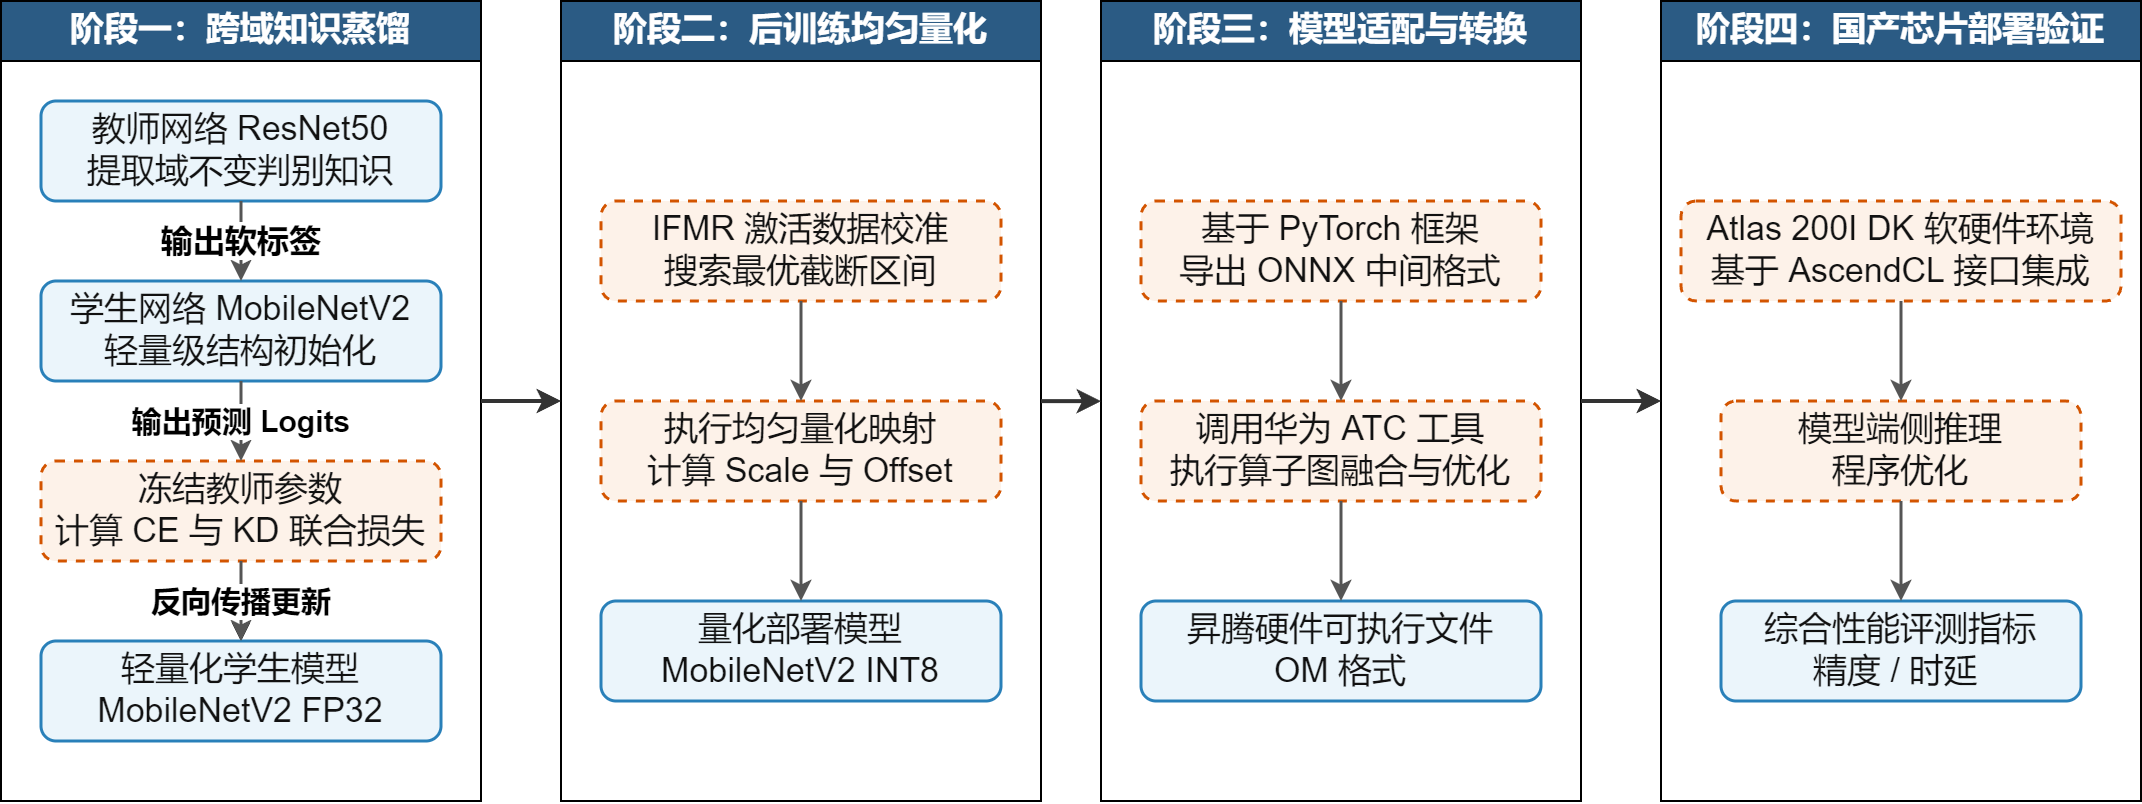
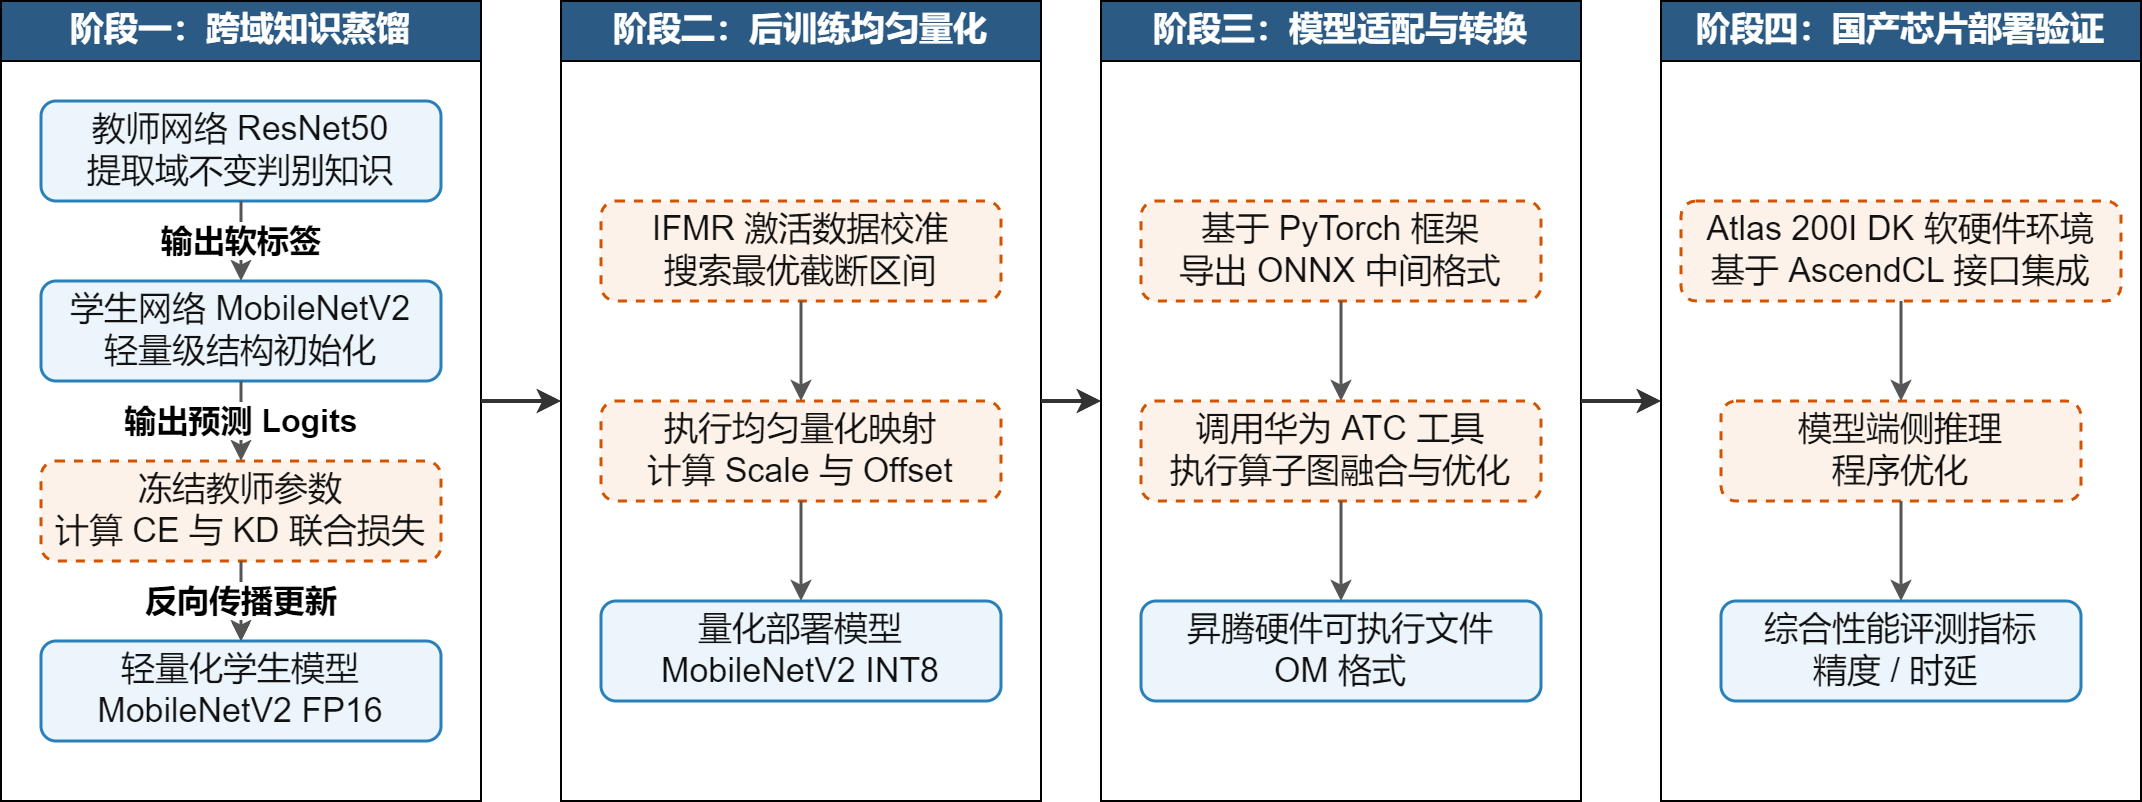
chap04仅剩还对实验进行修改

diff --git a/data/chap04.tex b/data/chap04.tex
@@ -3,7 +3,7 @@
 
 \section{引言}
 
-在复杂战场环境和非合作目标场景中的SAR目标识别任务，
+在复杂战场环境和非合作目标场景下开展SAR目标识别任务时，
 不仅面临实测训练数据获取困难、仿真与实测之间域偏移显著等问题，
 还受到边缘平台计算资源有限、存储空间受限以及关键软硬件自主可控需求增强等多重约束。
 第二章和第三章面向不同应用场景分别构建了跨域SAR目标识别模型，
@@ -17,7 +17,7 @@
 因此，如何在保持跨域识别性能基本稳定的前提下，
 通过轻量化手段降低模型计算负担，
 并结合国产AI芯片平台给出可执行的部署流程，
-成为本文从算法研究走向工程验证的关键环节。
+成为本文从算法研究走向实际应用的关键环节。
 
 基于上述需求，本章以本文第二章和第三章的跨域SAR目标识别模型为基础，
 面向国产AI芯片平台开展统一的轻量化处理与部署验证研究。
@@ -28,7 +28,7 @@
 进一步压缩模型参数表示精度，降低存储占用与推理开销；
 在此基础上，依托华为Atlas 200I DK A2开发者套件的软硬件环境，构建模型转换、板端集成、AscendCL推理调用与性能评估流程；
 最后从识别精度、资源消耗与部署便捷性等多个维度开展实验分析，
-形成“跨域识别模型轻量化—国产平台部署—端侧性能验证”的完整技术链路，
+打通“跨域识别模型轻量化—国产平台部署—端侧性能验证”的完整技术链路，
 以实现“实测数据受限条件下SAR目标识别模型需兼顾跨域适应/泛化能力与国产化部署能力”的总体需求。
 
 如图\ref{fig:chap4_pipeline}所示，本章整体流程可划分为四个阶段：
@@ -219,7 +219,7 @@ MobileNetV2在深度可分离卷积基础上引入了倒残差结构（Inverted 
 
 \subsubsection{跨域场景下的蒸馏知识传递机制}
 
-在跨域场景下，教师网络不仅学习类别判别边界，还隐式编码了“域不变语义关系”。
+在跨域场景下，教师网络不仅学习类别判别边界，还隐式编码了域不变语义关系。
 软标签蒸馏通过温度平滑后的概率分布，将教师网络对“非真值类别”的相对置信度传递给学生网络，
 使学生获得比“one-hot”硬标签更丰富的结构化监督信号。
 具体而言，第二章教师模型在少样本目标域参与训练的条件下学习到源域与目标域之间的适配性判别结构，
@@ -233,28 +233,22 @@ MobileNetV2在深度可分离卷积基础上引入了倒残差结构（Inverted 
 
 \subsection{模型后训练均匀量化}
 
-\subsubsection{后训练量化的选型依据与设计目标}
+\subsubsection{量化选型依据}
 
-在获得蒸馏学生模型后，本小节进一步采用后训练量化（Post-Training Quantization，PTQ）
-降低模型存储与计算开销。
+在获得蒸馏学生模型后，本小节进一步采用后训练量化（Post-Training Quantization，PTQ），
+将模型量化为INT8格式以降低模型存储与计算开销。
 相较于量化感知训练（Quantization-Aware Training，QAT）需要在全训练流程中模拟量化效应并进行端到端再训练，
 后训练量化仅需少量校准数据即可完成量化参数标定，无需重新训练模型权重，
 具有流程简洁、部署迭代速度快的工程优势，更适合本小节从蒸馏模型到端侧部署的快速验证需求。
 
-本小节选用后训练均匀量化的设计依据包括以下三点：
+本小节后训练均匀量化的设计依据包括以下三点：
 其一，蒸馏后的MobileNetV2学生模型参数分布经软标签正则化后趋于平滑，
-对量化截断误差的敏感度较低，适合后训练量化路径；
+对量化截断误差的敏感度较低，适合均匀量化；
 其二，目标部署平台Atlas 200I DK A2的昇腾310系列NPU原生支持INT8推理加速，
 后训练均匀量化产生的INT8模型可直接利用NPU硬件加速单元，
 实现推理吞吐的显著提升；
 其三，华为CANN软件栈提供了配套的昇腾模型压缩工具AMCT（Ascend Model Compression Toolkit），
-支持基于ONNX格式的后训练量化流程，
-与本章“PyTorch导出ONNX—AMCT量化—ATC转换OM”的部署技术链路天然衔接。
-
-本小节后训练量化方案的设计目标为：
-在INT8位宽约束下，以最小的识别精度损失实现模型体积相较FP32约4倍（相较FP16约2倍）的理论压缩与推理时延的显著降低，
-最终满足国产AI芯片平台端侧推理的实时性与资源约束需求。
-
+支持基于ONNX格式的后训练量化流程。
 
 \subsubsection{均匀量化的数学原理}
 
@@ -564,16 +558,16 @@ C++实现的核心流程与Python方式一致，
 	\begin{minipage}[t]{0.8\linewidth}
 	\caption[第二章模型轻量化前后识别性能对比]{第二章模型轻量化前后识别性能对比}
 	\label{tab:chap4_acc_chap2}
-		\begin{tabularx}{\linewidth}{>{\centering\bfseries\arraybackslash}m{3.2cm}*{4}{>{\centering\arraybackslash}X}}
+		\begin{tabularx}{\linewidth}{>{\centering\bfseries\arraybackslash}m{3.2cm}*{5}{>{\centering\arraybackslash}X}}
 			\toprule[1.5pt]
-			\multirow{2}{*}{模型} & \multicolumn{4}{c}{SAMPLE数据集准确率（\%）} \\
+			\multirow{2}{*}{模型} & \multirow{2}{*}{轻量化方式} &\multicolumn{4}{c}{SAMPLE数据集准确率（\%）} \\
 			\cmidrule(lr){2-5}
-			 & all & 10-shot & 5-shot & 1-shot \\
+			 & & all & 10-shot & 5-shot & 1-shot \\
 			\midrule[1pt]
-			ResNet50 FP16 & 98.89 & 97.18 & 96.54 & 92.21 \\
-			ResNet50 INT8 & 98.89 & 97.18 & 96.54 & 92.21 \\
-			MobileNetV2 FP16 & 97.17 & 96.27 & 95.61 & 90.87 \\
-			MobileNetV2 INT8 & 96.48 & 95.63 & 94.58 & 90.14 \\
+			ResNet50 FP16 & 原模型 & 98.89 & 97.18 & 96.54 & 92.21 \\
+			ResNet50 INT8 & 仅量化 & 98.89 & 97.18 & 96.54 & 92.21 \\
+			MobileNetV2 FP16 & 仅蒸馏 & 97.17 & 96.27 & 95.61 & 90.87 \\
+			MobileNetV2 INT8 & 蒸馏+量化 & 96.48 & 95.63 & 94.58 & 90.14 \\
 			\bottomrule[1.5pt]
 		\end{tabularx}
 	\end{minipage}
@@ -587,14 +581,14 @@ C++实现的核心流程与Python方式一致，
 	\label{tab:chap4_acc_chap3}
 		\begin{tabularx}{\linewidth}{>{\centering\bfseries\arraybackslash}m{3.2cm}*{4}{>{\centering\arraybackslash}X}}
 			\toprule[1.5pt]
-			\multirow{2}{*}{模型} & \multicolumn{2}{c}{SAMPLE数据集} & \multicolumn{2}{c}{S2M-5数据集} \\
+			\multirow{2}{*}{模型} & \multirow{2}{*}{轻量化方式} & \multicolumn{2}{c}{SAMPLE数据集} & \multicolumn{2}{c}{S2M-5数据集} \\
 			\cmidrule(lr){2-3} \cmidrule(lr){4-5}
-			 & 准确率(\%) & Macro F1(\%) & 准确率(\%) & Macro F1(\%) \\
+			 & & 准确率(\%) & Macro F1(\%) & 准确率(\%) & Macro F1(\%) \\
 			\midrule[1pt]
-			ResNet50 FP16 & 98.14 & 97.93 & 94.87 & 94.12 \\
-			ResNet50 INT8 & 98.14 & 97.93 & 94.87 & 94.12 \\
-			MobileNetV2 FP16 & 97.03 & 96.55 & 92.78 & 91.68 \\
-			MobileNetV2 INT8 & 96.29 & 95.47 & 91.66 & 89.85 \\
+			ResNet50 FP16 & 原模型 & 98.14 & 97.93 & 94.87 & 94.12 \\
+			ResNet50 INT8 & 仅量化 & 98.14 & 97.93 & 94.87 & 94.12 \\
+			MobileNetV2 FP16 & 仅蒸馏 & 97.03 & 96.55 & 92.78 & 91.68 \\
+			MobileNetV2 INT8 & 蒸馏+量化 & 96.29 & 95.47 & 91.66 & 89.85 \\
 			\bottomrule[1.5pt]
 		\end{tabularx}
 	\end{minipage}
@@ -719,5 +713,5 @@ MobileNetV2学生模型的参数量约为ResNet50教师模型的1/7，
 确认了本文所提的两类跨域SAR目标识别模型在国产AI芯片平台上均具备可部署性与工程应用潜力。
 
 总体而言，本章完成了从“跨域识别方法有效”到“国产平台可落地部署”的关键过渡，
-使全文研究工作在理论方法、模型压缩和工程实现三个层面形成了较为完整的技术闭环。
+使全文研究工作在理论方法、模型压缩和工程实现三个层面实现了较为完整的技术闭环。
 
